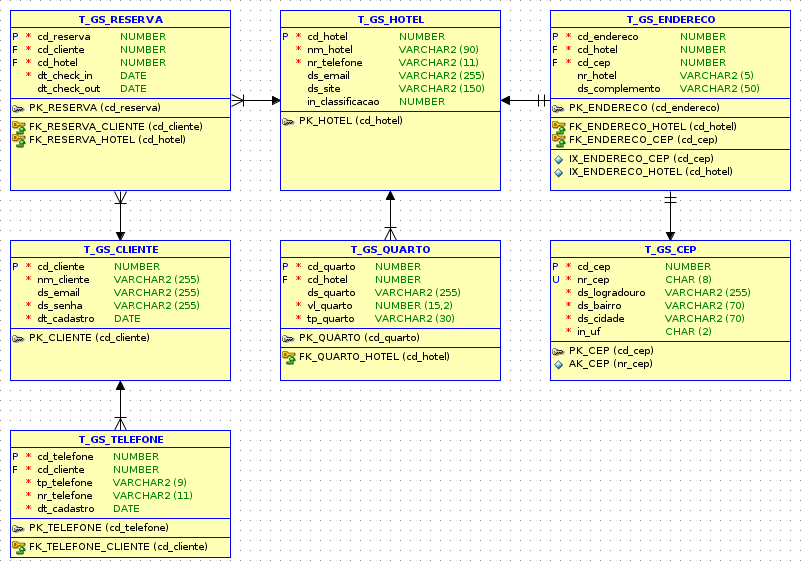
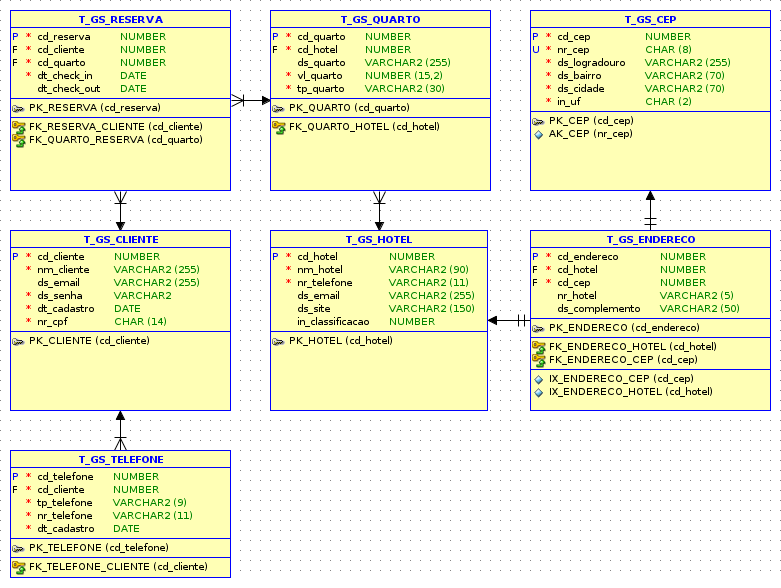
refactor: update MER
change relation between hotel and reserva to quarto and reserva

Changed region(s): [[0.0, 0.0, 1.0, 0.9877]]

diff --git a/src/main/java/br/com/traveller/model/Reservation.java b/src/main/java/br/com/traveller/model/Reservation.java
@@ -33,8 +33,8 @@ public class Reservation implements Serializable {
     private Customer customer;
 
     @ManyToOne(cascade = CascadeType.ALL)
-    @JoinColumn(name = "cd_hotel", nullable = false)
-    private Hotel hotel;
+    @JoinColumn(name = "cd_quarto", nullable = false)
+    private Room room;
 
     @CreationTimestamp
     @Temporal(TemporalType.TIMESTAMP)
@@ -47,8 +47,8 @@ public class Reservation implements Serializable {
 
     @Override
     public String toString() {
-        return "Reservation [checkIn=" + checkIn + ", checkOut=" + checkOut + ", customer=" + customer + ", hotel="
-                + hotel + ", id=" + id + "]";
+        return "Reservation [checkIn=" + checkIn + ", checkOut=" + checkOut + ", customer=" + customer + ", id=" + id
+                + ", room=" + room + "]";
     }
 
     public Reservation(Calendar checkIn, Calendar checkOut) {
@@ -59,10 +59,10 @@ public class Reservation implements Serializable {
     public Reservation() {
     }
 
-    public Reservation(Long id, Customer customer, Hotel hotel, Calendar checkIn, Calendar checkOut) {
+    public Reservation(Long id, Customer customer, Room room, Calendar checkIn, Calendar checkOut) {
         this.id = id;
         this.customer = customer;
-        this.hotel = hotel;
+        this.room = room;
         this.checkIn = checkIn;
         this.checkOut = checkOut;
     }
@@ -83,14 +83,6 @@ public class Reservation implements Serializable {
         this.customer = customer;
     }
 
-    public Hotel getHotel() {
-        return hotel;
-    }
-
-    public void setHotel(Hotel hotel) {
-        this.hotel = hotel;
-    }
-
     public Calendar getCheckIn() {
         return checkIn;
     }
@@ -105,6 +97,14 @@ public class Reservation implements Serializable {
 
     public void setCheckOut(Calendar checkOut) {
         this.checkOut = checkOut;
+    }
+
+    public Room getRoom() {
+        return room;
+    }
+
+    public void setRoom(Room room) {
+        this.room = room;
     }
 
 }

diff --git a/src/main/java/br/com/traveller/model/Room.java b/src/main/java/br/com/traveller/model/Room.java
@@ -1,6 +1,8 @@
 package br.com.traveller.model;
 
 import java.io.Serializable;
+import java.util.ArrayList;
+import java.util.List;
 
 import javax.persistence.CascadeType;
 import javax.persistence.Column;
@@ -12,6 +14,7 @@ import javax.persistence.GenerationType;
 import javax.persistence.Id;
 import javax.persistence.JoinColumn;
 import javax.persistence.ManyToOne;
+import javax.persistence.OneToMany;
 import javax.persistence.SequenceGenerator;
 import javax.persistence.Table;
 
@@ -39,10 +42,21 @@ public class Room implements Serializable {
     @JoinColumn(name = "cd_hotel", nullable = false)
     private Hotel hotel;
 
+    @OneToMany(mappedBy = "room", cascade = CascadeType.ALL)
+    private List<Reservation> reservations;
+
     @Override
     public String toString() {
         return "Room [description=" + description + ", hotel=" + hotel + ", id=" + id + ", type=" + type + ", value="
                 + value + "]";
+    }
+
+    public void addReservation(Reservation reservation) {
+        if (this.reservations == null) {
+            this.reservations = new ArrayList<>();
+        }
+        reservation.setRoom(this);
+        this.reservations.add(reservation);
     }
 
     public Room() {
@@ -103,4 +117,11 @@ public class Room implements Serializable {
         this.hotel = hotel;
     }
 
+    public List<Reservation> getReservations() {
+        return reservations;
+    }
+
+    public void setReservations(List<Reservation> reservations) {
+        this.reservations = reservations;
+    }
 }

diff --git a/src/main/java/br/com/traveller/model/Hotel.java b/src/main/java/br/com/traveller/model/Hotel.java
@@ -39,9 +39,6 @@ public class Hotel implements Serializable {
     private String site;
 
     @OneToMany(mappedBy = "hotel", cascade = CascadeType.ALL)
-    private List<Reservation> reservations;
-
-    @OneToMany(mappedBy = "hotel", cascade = CascadeType.ALL)
     private List<Room> rooms;
 
     @OneToOne(mappedBy = "hotel", cascade = CascadeType.ALL, fetch = FetchType.LAZY)
@@ -56,14 +53,6 @@ public class Hotel implements Serializable {
         }
         this.rooms.add(room);
         room.setHotel(this);
-    }
-
-    public void addReservation(Reservation reservation) {
-        if (this.reservations == null) {
-            this.reservations = new ArrayList<>();
-        }
-        this.reservations.add(reservation);
-        reservation.setHotel(this);
     }
 
     @Override
@@ -135,14 +124,6 @@ public class Hotel implements Serializable {
 
     public void setSite(String site) {
         this.site = site;
-    }
-
-    public List<Reservation> getReservations() {
-        return reservations;
-    }
-
-    public void setReservations(List<Reservation> reservations) {
-        this.reservations = reservations;
     }
 
     public List<Room> getRooms() {

diff --git a/src/main/java/br/com/traveller/StoreData.java b/src/main/java/br/com/traveller/StoreData.java
@@ -162,15 +162,11 @@ public class StoreData {
         address8.setHotel(hotel8);
         address9.setHotel(hotel9);
 
-        hotel1.addReservation(reservation1);
-        hotel2.addReservation(reservation1);
-        hotel3.addReservation(reservation4);
-        hotel4.addReservation(reservation3);
-        hotel5.addReservation(reservation4);
-        hotel6.addReservation(reservation5);
-        hotel7.addReservation(reservation5);
-        hotel8.addReservation(reservation3);
-        hotel9.addReservation(reservation2);
+        room1.addReservation(reservation1);
+        room2.addReservation(reservation3);
+        room3.addReservation(reservation2);
+        room6.addReservation(reservation4);
+        room14.addReservation(reservation5);
 
         customer1.addReservation(reservation1);
         customer2.addReservation(reservation5);
